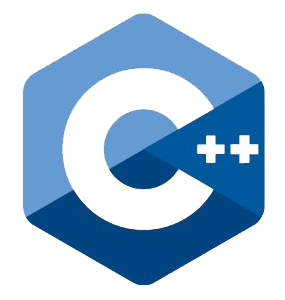
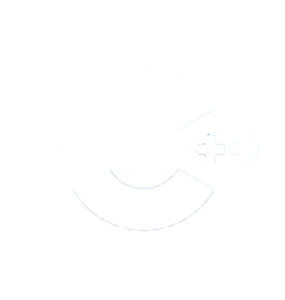
删除c++图片，修改basic样式

diff --git a/styles/trim.css b/styles/trim.css
@@ -1,9 +1,77 @@
-.content-body .col-xs-12 .row>div{
-	padding: 15px 15px;
+/*镜像管理样式调整*/
+
+
+/*2016-09-02 by licheng*/
+
+.content-body .col-xs-12 .row>div {
+    padding: 15px 15px;
 }
-.content-body .col-xs-12 .row .team-img img{
-	position: absolute;
-	height: 147px;
-	top: 0;
-	left: 0;
+
+.content-body .col-xs-12 .row .team-img img {
+    position: absolute;
+    height: 147px;
+    top: 0;
+    left: 0;
+}
+
+
+/*基础镜像样式修改*/
+
+
+/*2016-09-02 by licheng*/
+
+.tool-1 {
+    margin-bottom: 10px;
+}
+
+.tool-1 .tool-2 {
+    height: auto;
+}
+
+.java-1 {}
+
+.java-2 {
+    background: url(./data/albums/javabig.png) no-repeat;
+    background-size: 80% 100%;
+    background-position: 50%;
+    height: 250px;
+    min-height: 250px;
+}
+
+.clangular-1 {
+    background-color: #ce2127;
+}
+
+.clangular-2 {
+    background: url(data/albums/Clangular.png) no-repeat;
+    background-position: 50%;
+    height: 250px;
+}
+
+.nginx-1 {
+    background-color: #369750;
+}
+
+.nginx-2 {
+    background: url(data/albums/Nginx.png) no-repeat;
+    background-position: 50%;
+    height: 250px;
+    background-size: 80%;
+}
+
+.mysql-2 {
+    background: url(data/albums/mysql.png) no-repeat;
+    background-position: 50%;
+    height: 250px;
+    background-size: 100%;
+}
+
+.cpp-1 {
+    background-color: #295d88;
+}
+
+.cpp-2 {
+    background: url(data/albums/cpp.png) no-repeat;
+    background-position: 50%;
+    height: 250px;
 }
